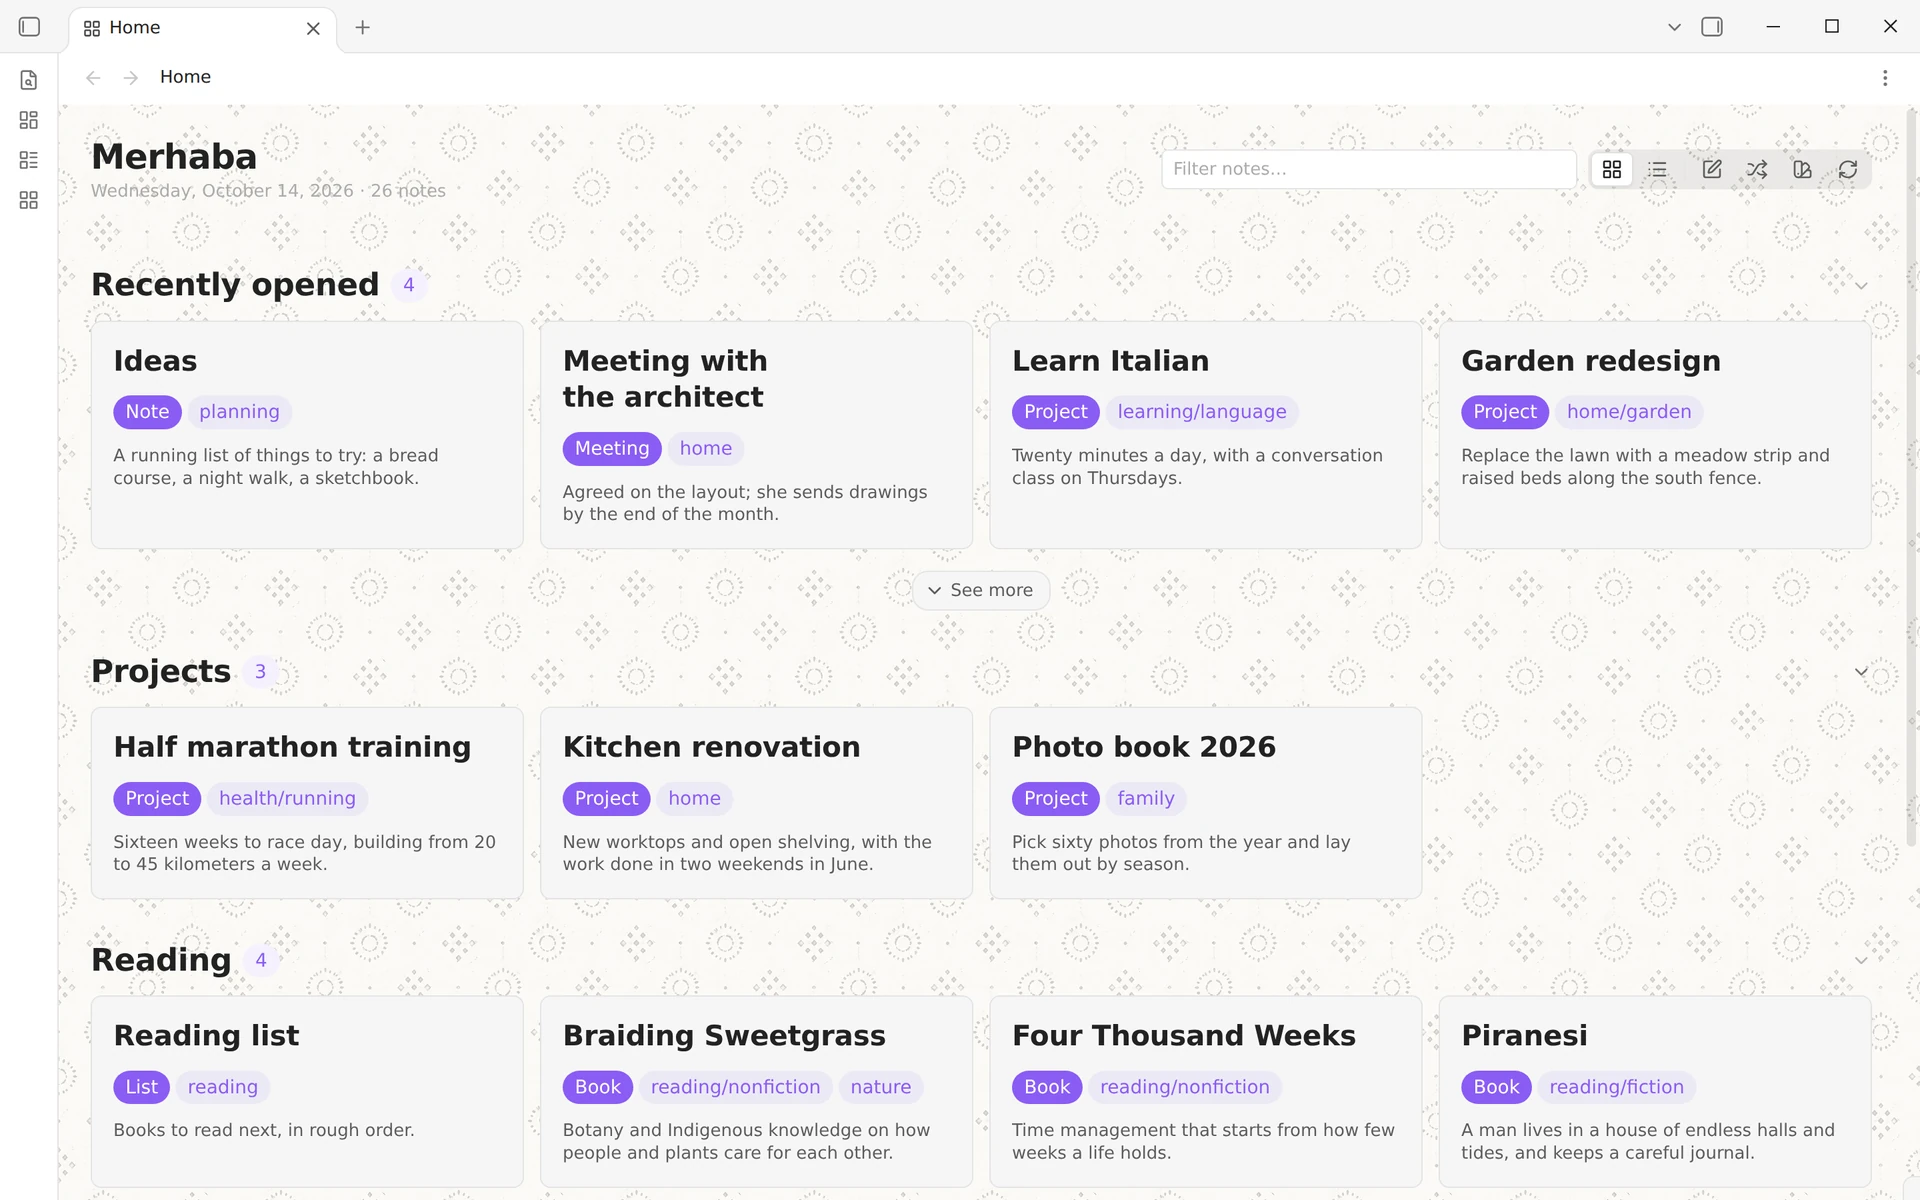
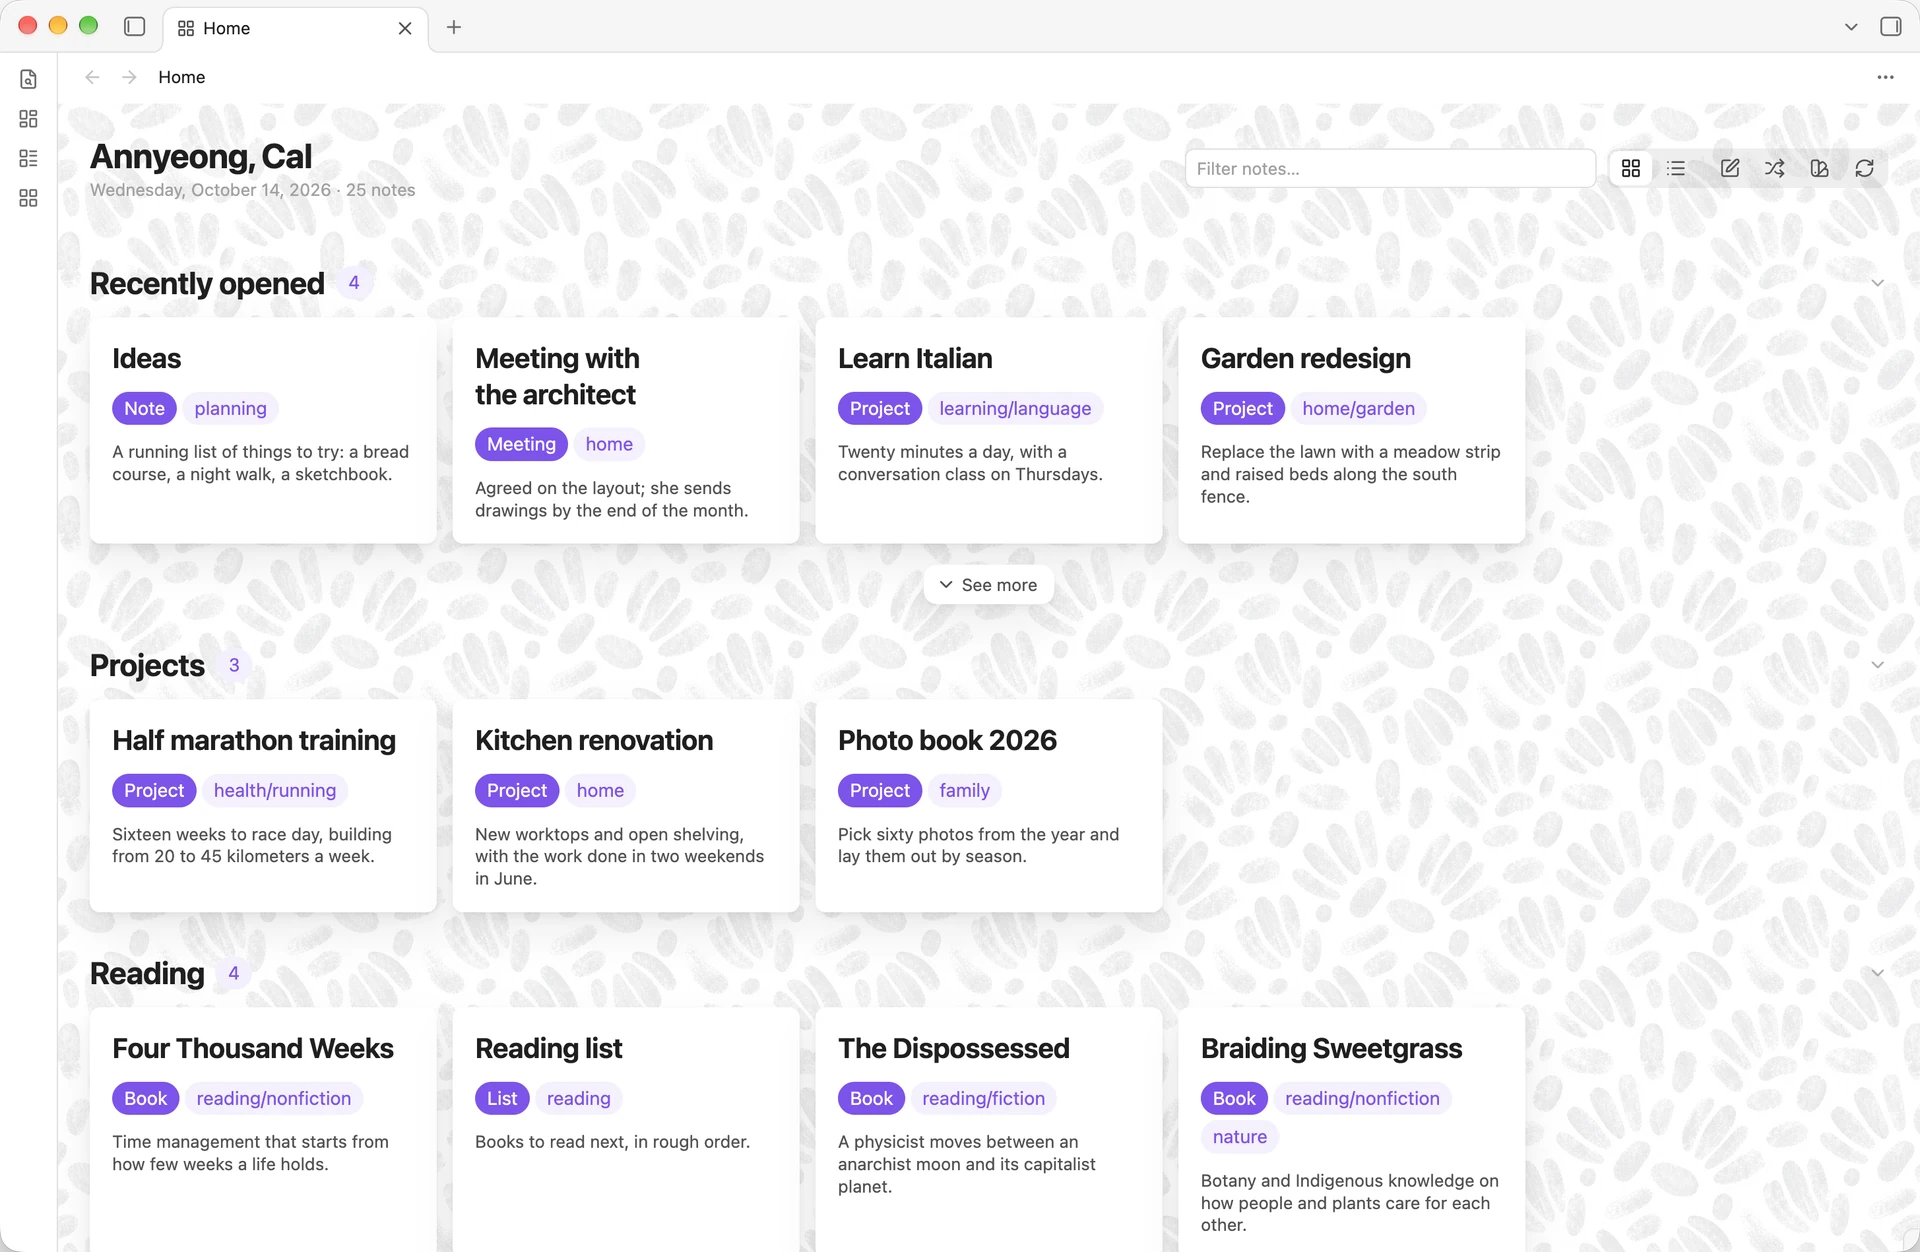
Replace the README screenshots with captures from Obsidian on macOS
Claude-Session: https://claude.ai/code/session_01XChKCWVZXfUJ9XLKHvZwCL

diff --git a/README.md b/README.md
@@ -27,8 +27,6 @@ Home Cards gives your vault a start page. The page shows sections of note cards:
 4. If your notes record their kind in a property other than `type`, set **Cards → Type property** to that property.
 5. Turn on **Open on startup** to make Home Cards your start page.
 
-<img src="docs/phone-dark.webp" alt="Home Cards on a phone, dark mode" width="300">
-
 ## Installation
 
 Search for **Home Cards** under **Settings → Community plugins → Browse**, then install and enable it.
